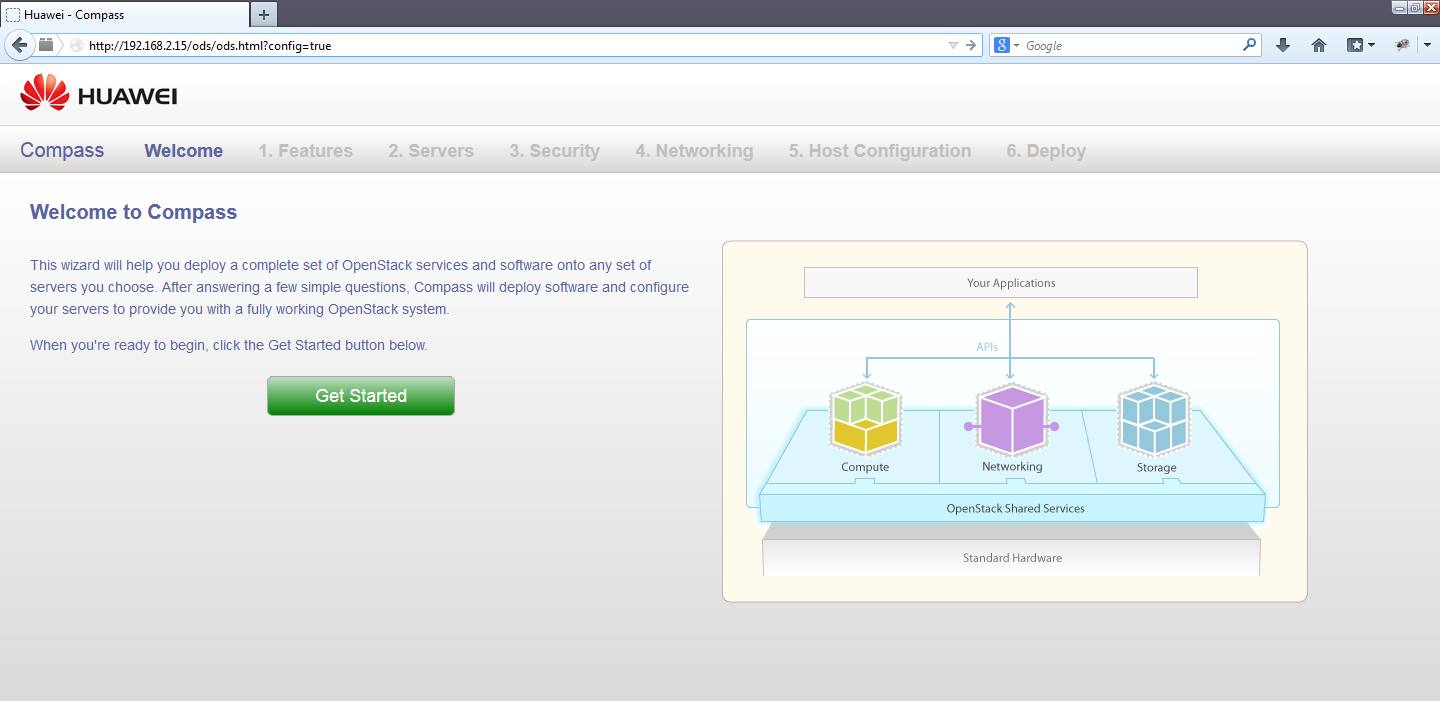
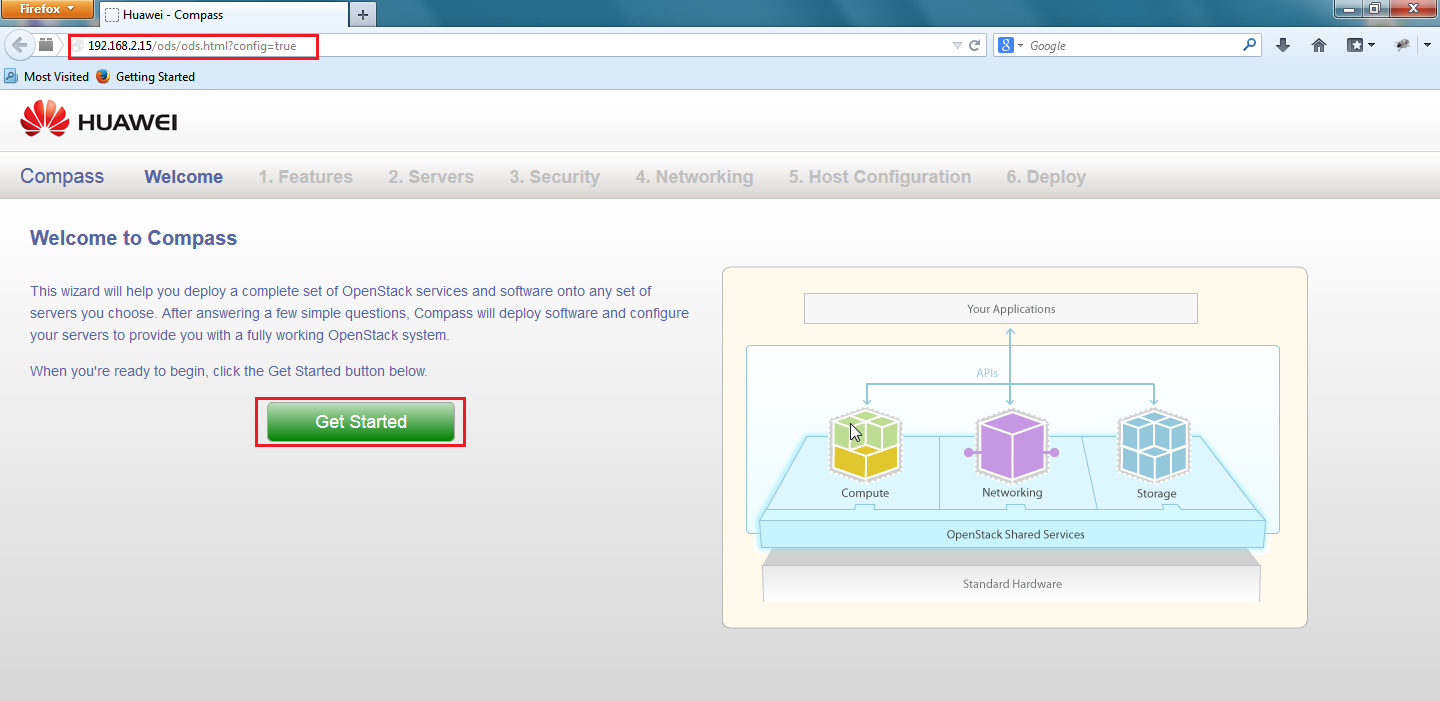
Add figures to guide users for 'try compass'

diff --git a/_includes/themes/twitter/header.html b/_includes/themes/twitter/header.html
@@ -16,10 +16,12 @@
           <li class="{% if page.title == 'Compass' %} active {% endif %}"><a href="/">Home</a></li>
           <li><a href="http://wiki.openstack.org/Compass">Wiki</a></li>
           <li class="{% if page.title == 'userguide' %} active {% endif %}"><a href="/user.html">Try Compass</a></li>
-          <!-- <li class="{% if page.title == 'developer' %} active {% endif %}"><a href="/developer.html">Become a developer</a></li> -->
+          <li class="{% if page.title == 'developer' %} active {% endif %}"><a href="/developer.html">Become a developer</a></li>
           <li class="dropdown {% if page.title == 'Documentation' %} active {% endif %}">
             <a href="#" class="dropdown-toggle" data-toggle="dropdown">Documentation <b class="caret"></b></a>
             <ul class="dropdown-menu">
+              <li class="disabled"><a href="#">User Manual</a></li>
+              <li class="disabled"><a href="#">Developer's Guide</a></li>
               <li><a href="/apirefs/overview.html">API Reference</a></li>
               <li class="divider"></xli>
               <li><a href="/pydocs/index.html">Python Documentation</a></li>

diff --git a/apirefs/overview.html b/apirefs/overview.html
@@ -1,7 +1,6 @@
 ---
 layout: page
 title: "Documentation"
-tag_li: "switch"
 description: ""
 apis:
   - switch.md
@@ -15,7 +14,7 @@ apis:
 
 {% capture subhead %}
   <h1>API Reference</h1>
-  <p class="lead">Reference Documentation of Compass RESTful API</p>
+  <p class="lead">Reference doc of Compass RESTful API</p>
 {% endcapture %}
 
 

diff --git a/assets/css/docs.css b/assets/css/docs.css
@@ -19,19 +19,6 @@ body {
   height: 100%;
 }
 
-.hiddenRow {
-    padding: 0 !important;
-}
-
-div.anchor_divider {
-   height: 50px;
-   width: 100%;
-}
-
-h4.docs_subheader {
-    color: #0b3b0b;
-}
-
 /* Code in headings */
 h3 code {
   font-size: 14px;

diff --git a/apirefs/dashboardlinks.html b/apirefs/dashboardlinks.html
@@ -1,7 +1,6 @@
 ---
 layout: page
-title: "API Ref: Links Documentation"
-tag_li: "links"
+title: "Documentation"
 description: ""
 apis:
   - switch.md

diff --git a/apirefs/machines.html b/apirefs/machines.html
@@ -1,7 +1,6 @@
 ---
 layout: page
-title: "API Ref - Machines"
-tag_li: "machine"
+title: "Documentation"
 description: ""
 apis:
   - switch.md

diff --git a/apirefs/cluster_hosts.html b/apirefs/cluster_hosts.html
@@ -1,7 +1,6 @@
 ---
 layout: page
 title: "Documentation"
-tag_li: "cluster_host"
 description: ""
 apis:
   - switch.md

diff --git a/apirefs/progress.html b/apirefs/progress.html
@@ -1,7 +1,6 @@
 ---
 layout: page
 title: "Documentation"
-tag_li: "progress"
 description: ""
 apis:
   - switch.md

diff --git a/apirefs/clusters.html b/apirefs/clusters.html
@@ -1,7 +1,6 @@
 ---
 layout: page
 title: "Documentation"
-tag_li: "cluster"
 description: ""
 apis:
   - switch.md

diff --git a/_includes/apirefs/clusters/postaction.md b/_includes/apirefs/clusters/postaction.md
@@ -58,7 +58,7 @@ The action \"deploy\" shall deploy and start to install each host(s) in the clus
 <td><a href="#deploy_action">deploy</a></td>
 <td>plain</td>
 <td>list</td>
-<td>The list of host IDs in the cluster expected to be deployed. Empty list means deploy all hosts in the cluster.</td>
+<td>Empty list to trigger cluster deploy action.</td>
 </tr>
 
 </tbody>
@@ -91,7 +91,7 @@ The action \"deploy\" shall deploy and start to install each host(s) in the clus
 <td>cluster_hosts</td>
 <td>list</td>
 <td>The list of all hosts which is added successfully to the specified cluster.
-Each host represents as a dict including the attributes "id" (host id) and "machine_id".</td>
+Each host represents as a dict including the attributes  \"id\" (host id) and \"machine_id\".</td>
 </tr>
 
 </tbody>
@@ -112,20 +112,10 @@ Each host represents as a dict including the attributes "id" (host id) and "mach
 {% highlight javascript %}
 {
     "status": "OK",
-    "cluster_hosts": [
-        {
-            "id": 1,
-            "machine_id": 11
-        },
-        {
-            "id": 2,
-            "machine_id": 12
-        },
-        {
-            "id": 3,
-            "machine_id": 13
-        }
-    ]
+    "cluster_hosts": {
+        "id": 1,
+        "machine_id": 11
+    }
 }
 {% endhighlight  %}
 
@@ -166,7 +156,7 @@ Each host represents as a dict including the attributes "id" (host id) and "mach
 <td>cluster_hosts</td>
 <td>list</td>
 <td>The list of all hosts which are removed successfully from the specified cluster.
-Each host represents as a dict including the attributes "id" (host id) and "machine_id".</td>
+Each host represents as a dict including the attributes  \"id\" (host id) and \"machine_id\".</td>
 </tr>
 
 </tbody>
@@ -230,7 +220,7 @@ Each host represents as a dict including the attributes "id" (host id) and "mach
 <td>cluster_hosts</td>
 <td>list</td>
 <td>The list of all hosts which successfully replaces all previous ones int the specified cluster.
-Each host represents as a dict including the attributes "id" (host id) and "machine_id".</td>
+Each host represents as a dict including the attributes  \"id\" (host id) and \"machine_id\".</td>
 </tr>
 
 </tbody>
@@ -279,7 +269,7 @@ Each host represents as a dict including the attributes "id" (host id) and "mach
 <tr>
 <td>status</td>
 <td>string </td>
-<td>"accepted" if no error occurs, or appropriate error string in case of failure.</td>
+<td>"OK" if no error occurs, or appropriate error string in case of failure.</td>
 </tr>
 <tr>
 <td>deployment</td>
@@ -298,31 +288,11 @@ Each host represents as a dict including the attributes "id" (host id) and "mach
 }
 {% endhighlight  %}
 
-**Sample JSON Request**
-
-{% highlight javascript %}
-{
-    "deploy": [15]
-}
-{% endhighlight  %}
-
 **Sample JSON Response**
 
 {% highlight javascript %}
 {
-    "status": "accepted",
-    "deployment": {
-        "cluster": {
-            "cluster_id": 1,
-            "url": "/clusters/1/progress"
-        },
-        "hosts": [
-            {
-                "host_id": 1,
-                "url": "/cluster_hosts/1/progress"
-            },
-            ...
-        ]
-    }
+    "status": "OK",
+    "deployment": "/progress/cluster/1"
 }
 {% endhighlight  %}

diff --git a/_includes/apirefs/clusters/updateresource.md b/_includes/apirefs/clusters/updateresource.md
@@ -208,14 +208,6 @@ Updates the configuration information of the specified cluster. The configuratio
 <td>The name of the network adapter.</td>
 </tr>
 
-
-<tr>
-<td>promisc</td>
-<td>plain</td>
-<td>int</td>
-<td>The value is 1 if NIC is in promisc mode, otherwise the value will be 0.</td>
-</tr>
-
 <tr>
 <td>nameservers</td>
 <td>plain</td>
@@ -245,7 +237,7 @@ Updates the configuration information of the specified cluster. The configuratio
 </tr>
 
 <tr>
-<td>ntp-server(optional)</td>
+<td>ntp-server</td>
 <td>plain</td>
 <td>string</td>
 <td>The ntp server for global networking config</td>
@@ -287,8 +279,7 @@ Updates the configuration information of the specified cluster. The configuratio
                 "netmask": "255.255.255.0",
                 "gateway": "",
                 "vlan": "",
-                "nic": "eth0",
-                "promisc": 1
+                "nic": "eth0"
             },
             "tenant": {
                 "ip_start": "192.168.10.100",
@@ -296,8 +287,7 @@ Updates the configuration information of the specified cluster. The configuratio
                 "netmask": "255.255.255.0",
                 "gateway": "",
                 "vlan": "",
-                "nic": "eth2",
-                "promisc": 0
+                "nic": "eth2"
             },
             "public":{
                 "ip_start": "12.145.68.100",
@@ -305,8 +295,7 @@ Updates the configuration information of the specified cluster. The configuratio
                 "netmask": "255.255.255.0",
                 "gateway": "",
                 "vlan": "",
-                "nic": "eth3",
-                "promisc": 0
+                "nic": "eth3"
             },
             "storage":{
                 "ip_start": "172.29.8.100",
@@ -314,8 +303,7 @@ Updates the configuration information of the specified cluster. The configuratio
                 "netmask": "255.255.255.0",
                 "gateway": "",
                 "vlan": "",
-                "nic": "eth4",
-                "promisc": 0
+                "nic": "eth4"
             }
         },
         "global":{

diff --git a/_includes/userguides/step7.md b/_includes/userguides/step7.md
@@ -2,7 +2,20 @@
 
 Networking enables OpenStack networking configuration. In this page, you may configure your OpenStack cluster's network by specifying global network configuration and per-interface network configuration.
 
+Compass golden image predefined the network configuration. If you wish to use your own configuration for this demo, please make sure you set a unique NIC for Public Network and enable the promisc mode.
+
+
 ![Networking](/img/7_networking.png)
+
+![Public network](/img/7_public_network.png)
+
+![Promisc](/img/7_promisc.png)
+
+After reviewing/editing each tab, you can proceed by clicking on “Continue”.
+
+![Global network](/img/7_global_network.png)
+
+Basic descriptions of what each tab of networking config does can be found below:
 
 **Global: **In the Global tab of Networking page, you will need to fill in these values:
 
@@ -26,8 +39,3 @@ Networking enables OpenStack networking configuration. In this page, you may con
   * Tenant: The OpenStack tenant network. This network enables OpenStack tenants(virtual machines) that are from different physical compute nodes to communicate with each other;
   * Public: The public network is a network which OpenStack points tenant public traffic to. This requires the respective physical interface to be set as promiscuous mode. That is to say, this network needs to be mapped to a unique physical interface which is different from all other networks to avoid networking chaos. (please refer to the screenshot below)
   * Storage: Currently the storage network is not utilized by Compass. Theoretically the storage network will be used by tenants to access storage devices or services such as Swift/Cinder;
-
-![Public network](/img/7_public_network.png)
-
-![Promisc](/img/7_promisc.png)
-

diff --git a/_includes/userguides/step1.md b/_includes/userguides/step1.md
@@ -1,6 +1,20 @@
 <h2 id="step-one">Step 1 - Run Script</h2>
 
-Once you have downloaded the Compass Golden Image zip file, extract it and execute the ”runme.bat” file. During the execution, the batch file will ask you for administrator’s permission to apply changes to VirtualBox. The execution may take up to 5 minutes as it copies the VDI image to your VirtualBox VMs directory. Two virtual machines will be created by the batch script for OpenStack installation demo purposes. 
+Once you have downloaded the Compass Golden Image zip file, extract it and execute the ”runme.bat” file. 
+
+
+![Click runme script](/img/1_runme_click.png)
+
+During the execution, the batch file will ask you for administrator’s permission to apply changes to VirtualBox. 
 
 ![Run Script](/img/1_run_script.png)
 
+![User account permission](/img/1_account_permission.png)
+
+![runme script completed](/img/1_runme_complete.png)
+
+The execution may take up to 5 minutes as it copies the VDI image to your VirtualBox VMs directory. Two virtual machines will be created by the batch script for OpenStack installation demo purposes. 
+
+If you go to the folder where VMs are stored, you will see we have successfully added three hosts: compass, host1 and host2.
+
+![runme script completed](/img/1_folder_after_script.png)
